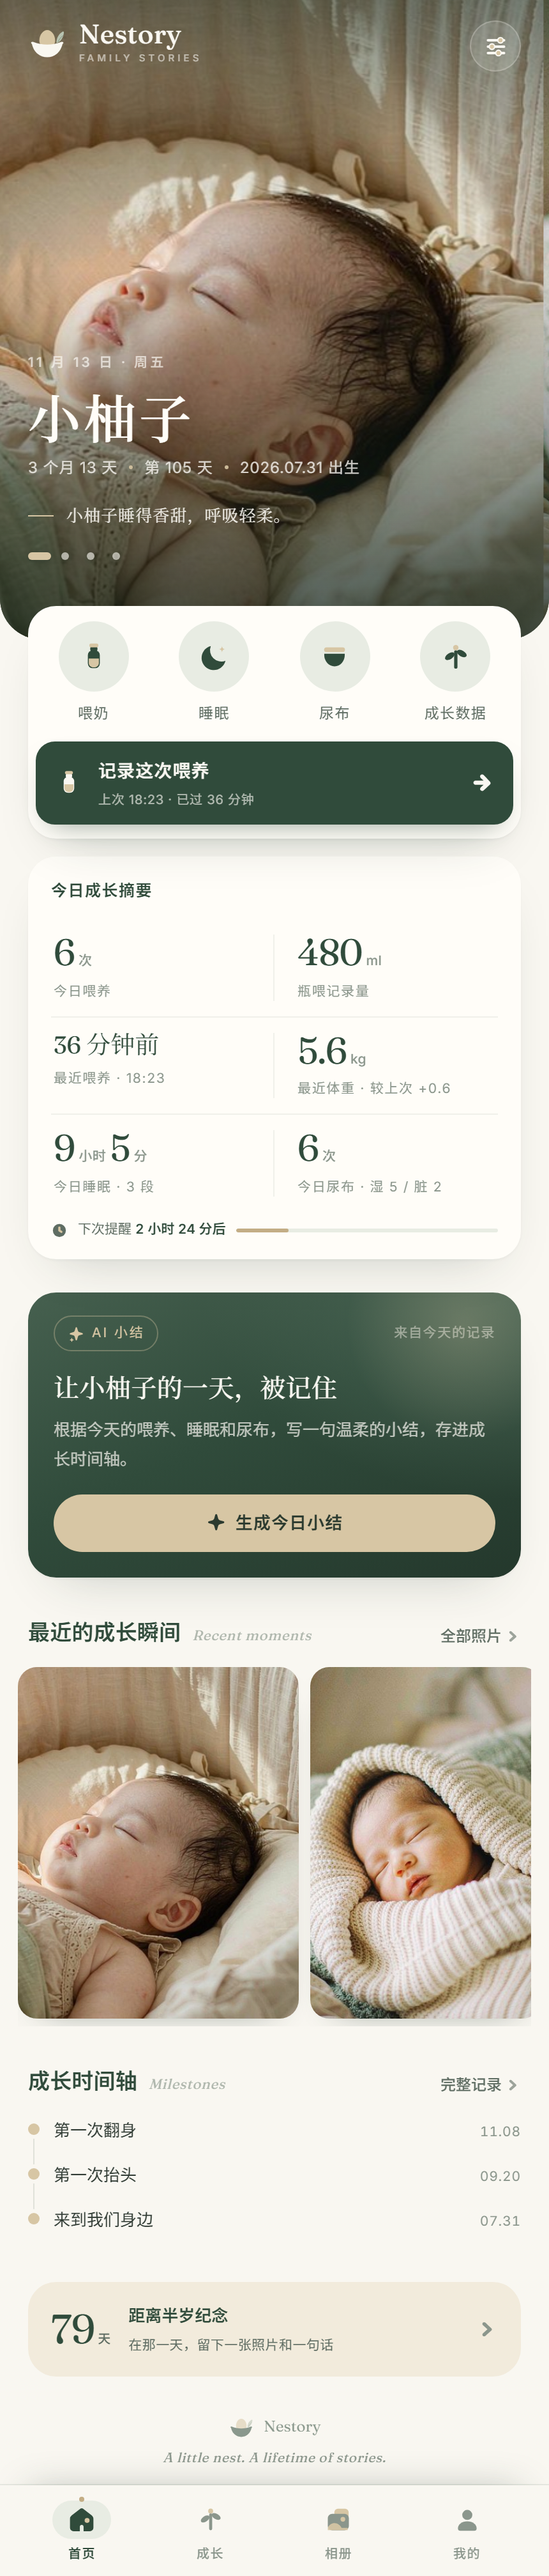
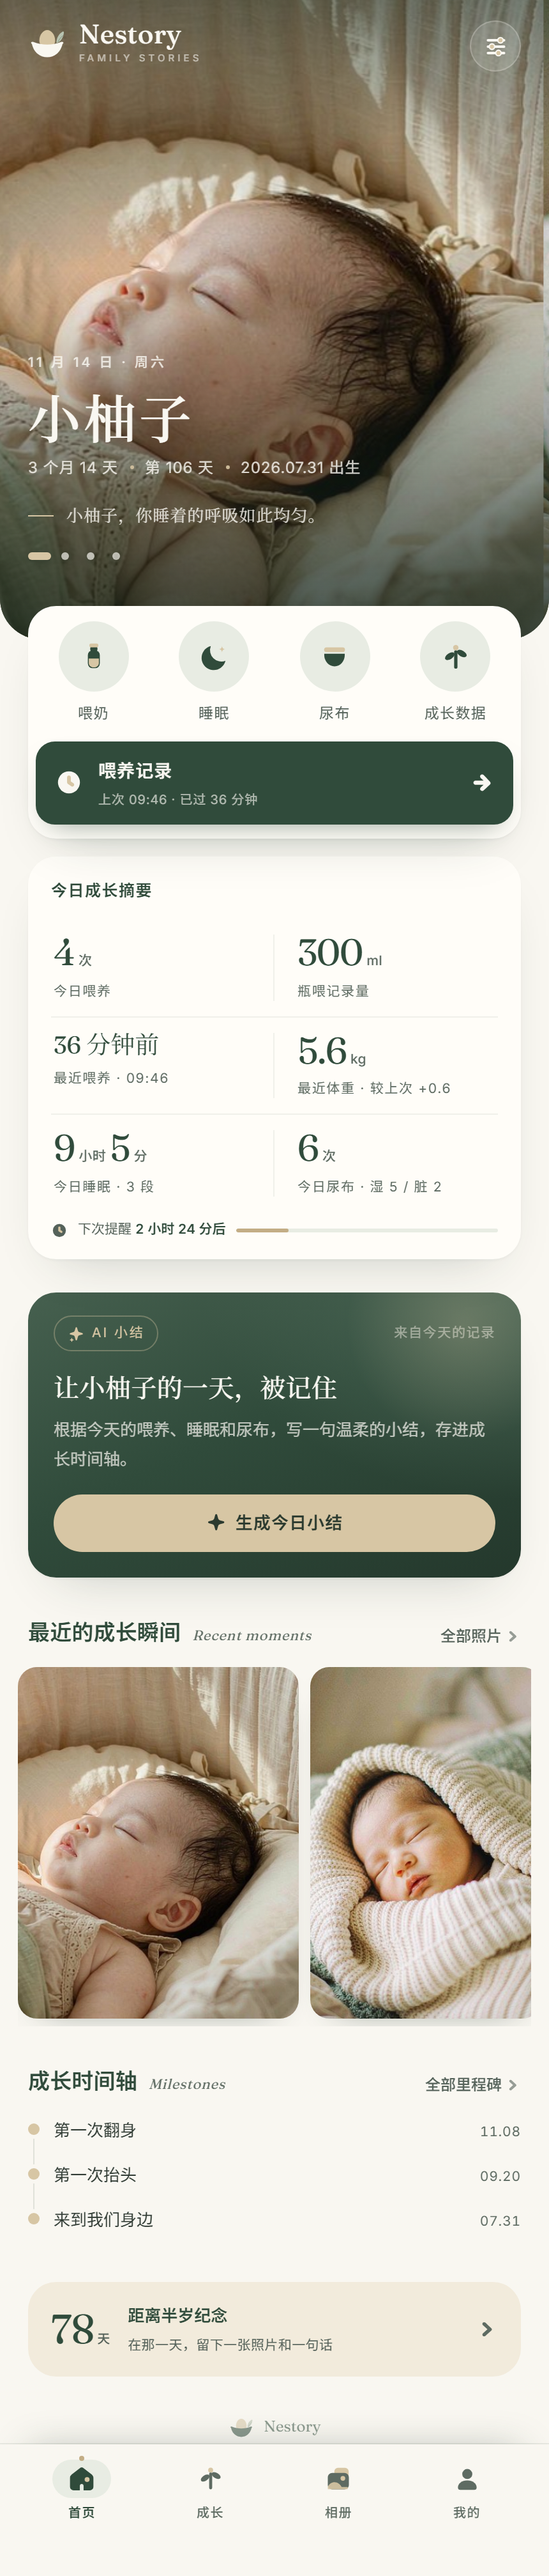
feat(home): open all photos and milestones from the home actions
首页两处入口不再只是切 Tab：全部照片带 all=1 打开相册全屏层，全部里程碑带 story=1 滚到相册时间轴，关闭/返回直接回首页。临时根层不压退出哨兵，避免误弹退出确认。

diff --git a/src/pages/Album.tsx b/src/pages/Album.tsx
@@ -14,6 +14,7 @@ import { hasMotion, isVideoPhoto, motionOf } from '../lib/photo'
 import { isBeforeBirth } from '../lib/birth'
 import { MEDIA_GROUPS, MEDIA_LIMITS } from '../data/config'
 import { ApiError } from '../data/api'
+import { getHashParam } from '../lib/route'
 
 /** Badge for a motion clip: LIVE for live photos, length for videos. */
 async function requestCaptionTitles(src: string, hint: string): Promise<string[]> {
@@ -161,6 +162,12 @@ export default function AlbumPage() {
   const [lightboxIndex, setLightboxIndex] = useState<number | null>(null)
   const [addOpen, setAddOpen] = useState(false)
   const [allOpen, setAllOpen] = useState(false)
+  // 首页的两个入口带意图进入：?all=1 直接打开「全部照片」，?story=1 定位到成长时间轴。
+  const [entry] = useState(() => ({
+    all: getHashParam('all') === '1',
+    story: getHashParam('story') === '1',
+    fromHome: getHashParam('from') === 'home',
+  }))
   const [draft, setDraft] = useState<AlbumDraft | null>(null)
   const [captionEdit, setCaptionEdit] = useState<{ id: string; value: string } | null>(null)
   const [busy, setBusy] = useState(false)
@@ -480,9 +487,34 @@ export default function AlbumPage() {
   }
 
   const closeFullGallery = () => {
+    // 从首页「全部照片」进来的：关闭即回到首页，而不是停在相册 Tab。
+    if (entry.all && entry.fromHome) {
+      history.back()
+      return
+    }
     if ((history.state as Record<string, unknown> | null)?.nestoryAlbumAll) history.back()
     else setAllOpen(false)
   }
+
+  useEffect(() => {
+    if (!entry.fromHome) return
+    // 记录「这是从首页临时进来的相册」：ExitGuard 不压哨兵，返回直接回首页。
+    const nextState = { ...((history.state ?? {}) as Record<string, unknown>), nestoryNested: true }
+    history.replaceState(nextState, '', window.location.hash)
+  }, [entry.fromHome])
+
+  useEffect(() => {
+    if (!entry.all) return
+    setAllOpen(true)
+  }, [entry.all])
+
+  useEffect(() => {
+    if (!entry.story) return
+    const timer = window.setTimeout(() => {
+      document.querySelector('.story')?.scrollIntoView({ behavior: 'smooth', block: 'start' })
+    }, 280)
+    return () => window.clearTimeout(timer)
+  }, [entry.story])
 
   const photoCard = (p: Photo) => (
     <AlbumPhotoCard key={p.id} photo={p} onOpen={openLightbox} />

diff --git a/src/lib/route.ts b/src/lib/route.ts
@@ -68,15 +68,25 @@ function emit() {
 /**
  * 进入下一级：新增一条历史记录，硬件返回会先回到上一级，而不是继续堆积。
  * replace=true 用于底部 Tab 切换——同一层横向切换不应产生历史记录。
+ * params 用于带意图进入：例如首页「全部照片」→ `#/album?all=1&from=home`。
  */
-export function navigate(route: Route, from?: Route, replace = false) {
-  const next = `#/${route}${from ? `?from=${from}` : ''}`
+export function navigate(
+  route: Route,
+  from?: Route,
+  replace = false,
+  params?: Record<string, string>,
+) {
+  const query = new URLSearchParams()
+  if (from) query.set('from', from)
+  for (const [key, value] of Object.entries(params ?? {})) query.set(key, value)
+  const next = `#/${route}${query.toString() ? `?${query}` : ''}`
   if (window.location.hash === next) return
 
   trail = trail.slice(0, depth + 1)
   if (replace) {
     const nextState = { ...(history.state ?? {}) } as Record<string, unknown>
     if (nextState.nestoryExitGuard) nextState.nestoryExitGuardPath = next
+    delete nextState.nestoryNested
     history.replaceState(nextState, '', next)
     trail[depth] = route
   } else {
@@ -84,6 +94,7 @@ export function navigate(route: Route, from?: Route, replace = false) {
     const nextState = { ...(history.state ?? {}) } as Record<string, unknown>
     delete nextState.nestoryExitGuard
     delete nextState.nestoryExitGuardPath
+    delete nextState.nestoryNested
     history.pushState(nextState, '', next)
     trail.push(route)
     depth += 1

diff --git a/src/pages/Home.tsx b/src/pages/Home.tsx
@@ -557,7 +557,12 @@ export default function HomePage() {
       </section>
 
       <section className="section" style={{ marginTop: 30 }}>
-        <SectionHead title="最近的成长瞬间" en="Recent moments" action="全部照片" onAction={() => navigate('album')} />
+        <SectionHead
+          title="最近的成长瞬间"
+          en="Recent moments"
+          action="全部照片"
+          onAction={() => navigate('album', 'home', false, { all: '1' })}
+        />
         {photos.length ? (
           <div className="strip">
             {photos.map((p) => (
@@ -580,7 +585,12 @@ export default function HomePage() {
       </section>
 
       <section className="section" style={{ marginTop: 30 }}>
-        <SectionHead title="成长时间轴" en="Milestones" action="完整记录" onAction={() => navigate('growth')} />
+        <SectionHead
+          title="成长时间轴"
+          en="Milestones"
+          action="全部里程碑"
+          onAction={() => navigate('album', 'home', false, { story: '1' })}
+        />
         <div className="story">
           {milestones.map((m) => (
             <div key={m.id} className="story__item">

diff --git a/src/components/ExitGuard.tsx b/src/components/ExitGuard.tsx
@@ -3,7 +3,7 @@ import { currentRoute, restoreRoute, TAB_ROUTES } from '../lib/route'
 import type { Route } from '../lib/route'
 import { Sheet } from './Sheet'
 
-type GuardState = { nestoryExitGuard?: boolean } | null
+type GuardState = { nestoryExitGuard?: boolean; nestoryNested?: boolean } | null
 
 /**
  * 主界面再按返回时，先弹一次确认，不直接退出应用。
@@ -24,6 +24,8 @@ export default function ExitGuard({ route }: { route: Route }) {
 
   const pushGuard = () => {
     const state = (history.state ?? {}) as GuardState & { nestoryExitGuardPath?: string }
+    // 由首页入口带参数进入的同一 Tab 页面是「临时根层」：返回应当回首页，不该弹退出确认。
+    if (state?.nestoryNested) return
     const path = window.location.hash || '#/home'
     if (state?.nestoryExitGuard && state.nestoryExitGuardPath === path) return
     history.pushState({ ...state, nestoryExitGuard: true, nestoryExitGuardPath: path }, '', window.location.href)

diff --git a/README.md b/README.md
@@ -94,7 +94,7 @@ AI 目前有六处入口。前五处把当前整份 `AppState` POST 给后端：
 
 | 路由 | 页面 | 说明 |
 | --- | --- | --- |
-| `#/home` | 首页 | 品牌主视觉（从成长相册选 4 张、可左右滑动、6 秒自动轮播）→ 悬浮快捷区 → 今日摘要 → AI 小结 → 最近照片 → 成长时间轴 → 纪念日 |
+| `#/home` | 首页 | 品牌主视觉（从成长相册选 4 张、可左右滑动、6 秒自动轮播）→ 悬浮快捷区 → 今日摘要 → AI 小结 → 最近照片 → 成长时间轴 → 纪念日；两处「全部照片 / 全部里程碑」直达相册的全屏照片层与时间轴位置，返回即回首页 |
 | `#/feed` | 喂养中心 | 统计、近 7 天趋势、提醒、二级喂养记录与编辑删除；不显示录入表单 |
 | `#/record` | 快速记录 | 从首页摘要卡进入，只保留方式选择与最近 5 条；保存后回到首页 |
 | `#/growth` | 成长记录 | 左对齐标题；最新测量深绿卡、体重趋势、五列队列表格；睡眠、尿布分段 |
@@ -204,9 +204,10 @@ src/
 | 项目 | 结果 |
 | --- | --- |
 | `tsc --noEmit` | 通过，无类型错误 |
-| `npm run build` | 通过（约 2.4s，JS 430.1 kB / gzip 131.2 kB，CSS 277.3 kB / gzip 80.6 kB） |
+| `npm run build` | 通过（约 2.4s，JS 430.9 kB / gzip 131.4 kB，CSS 277.3 kB / gzip 80.6 kB） |
 | `npm test` | 24 个用例全部通过（5 个文件）：月龄、喂养提醒到点/夜间抑制/去重、跨午夜间隔、统计、编辑/删除重算、睡眠裁剪、纪念日、API 错误映射、照片色调 |
 | 首页轮播（`node _e2e_home.mjs`） | 28/28 通过：自动轮播、指示点同步、点击切换、真实手指左滑、竖滑不锁页面、无横向溢出、四宫格/加号格/仅相册选图/更换/清空/恢复默认（登录后数据来自 MySQL） |
+| 首页入口直达（`node _e2e_home_links.mjs`） | 10/10 通过：两个入口文案与去向一致，「全部照片」打开相册全屏层（`?all=1`）且关闭回首页，「全部里程碑」滚到相册时间轴（`?story=1`），系统返回回首页、无脚本错误 |
 | 多尺寸首屏（`node _e2e_viewport.mjs`） | 15/15 通过：320×568、360×640、375×667、390×844、430×932 下四个快捷圆钮与「喂养记录」按钮都在 TabBar 之上完整可见，且无横向溢出 |
 | 按钮动效（`node _e2e_tap.mjs`） | 11/11 通过：按下压缩、松手回弹、主按钮香槟描边、键盘触发、拖动超 10px 不回弹、减少动态效果时不播放、禁用按钮不响应 |
 | 返回动效与历史（`node _e2e_back.mjs`） | 22/22 通过：页面返回按钮与系统返回都只回一级并播放滑动动效、TabBar 贴底、无横向溢出、减少动效不播放；底部 Tab 往返不增加历史、进入下一级只加一条、返回不堆栈、主界面再返回先确认、确认后退出应用 |
@@ -298,6 +299,7 @@ src/
 - **图标为实心双色。** 以形状而非线条表达，主色森林绿，香槟金只做一处强调；不使用 Lucide / SVG 线稿 / Emoji。
 - **数字使用衬线体。** 喂养次数、奶量、体重、计时器使用 Fraunces，让「记录」有仪式感；正文保持 Inter + Noto Sans SC 的高可读性。
 - **顶级 Tab 页面不放返回箭头。** 成长记录与成长相册由底部 Tab 进入，标题改为左对齐的品牌式页头（英文眉标 + 衬线标题 + 一句上下文），右侧只保留「新增」；返回箭头只出现在喂养、提醒、设置等二级页。
+- **首页的「全部照片 / 全部里程碑」是直达，不是换一个 Tab。** 两个入口都带着意图进入相册（`?all=1` 打开全屏照片层、`?story=1` 滚到成长时间轴），关闭或返回时回到首页；这条临时路径不压退出哨兵，所以不会误弹「要离开吗」。
 - **返回路径按来源决定，而不是固定跳一个页面。** 快速记录与喂养中心返回首页；设置、关于返回我的家庭；提醒中心由首页或设置进入时携带 `from`，返回对应入口，避免从首页点进来却回到「我的」。
 - **成长页先给一个「最新测量」焦点。** 把原来三张等权重的数字卡合并成一张深绿测量卡（体重为主、身长/头围为辅），趋势与队列表格依次退后，页面有了主次而不是仪表盘。
 - **相册先给一张封面。** 最近一张照片升为 4:3 封面，点开只显示这一张，不提供左右切换；月份筛选放到封面之后，最近一张仍留在下方月份网格里。
